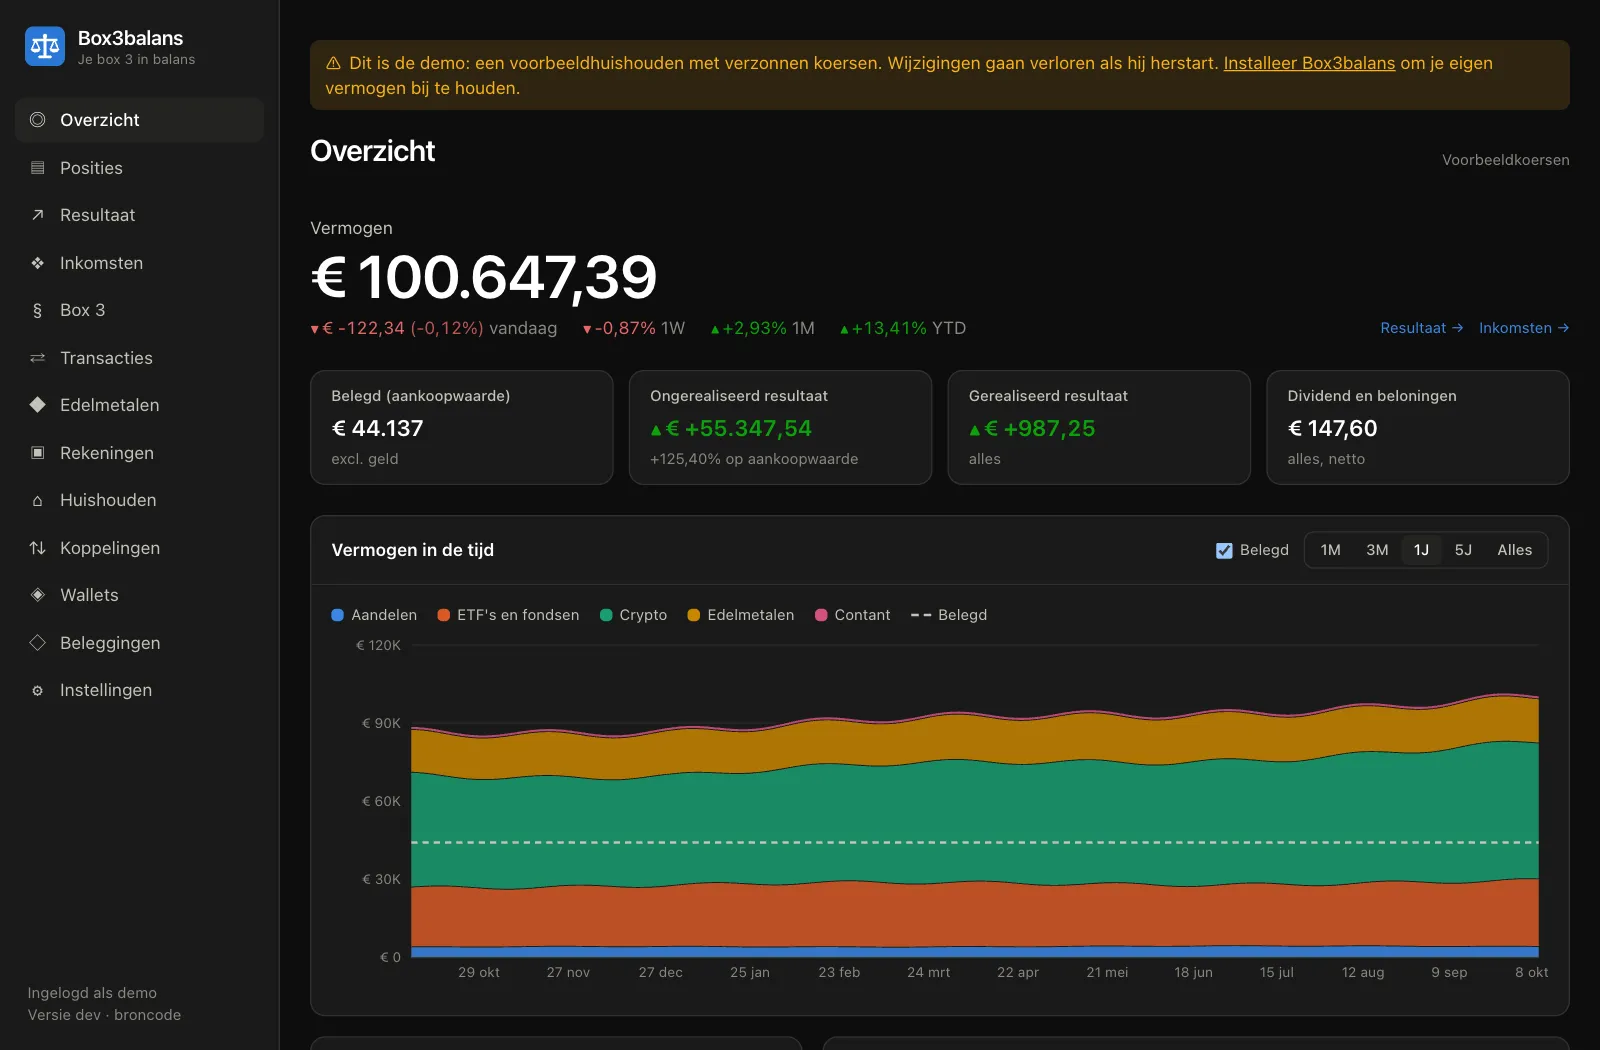
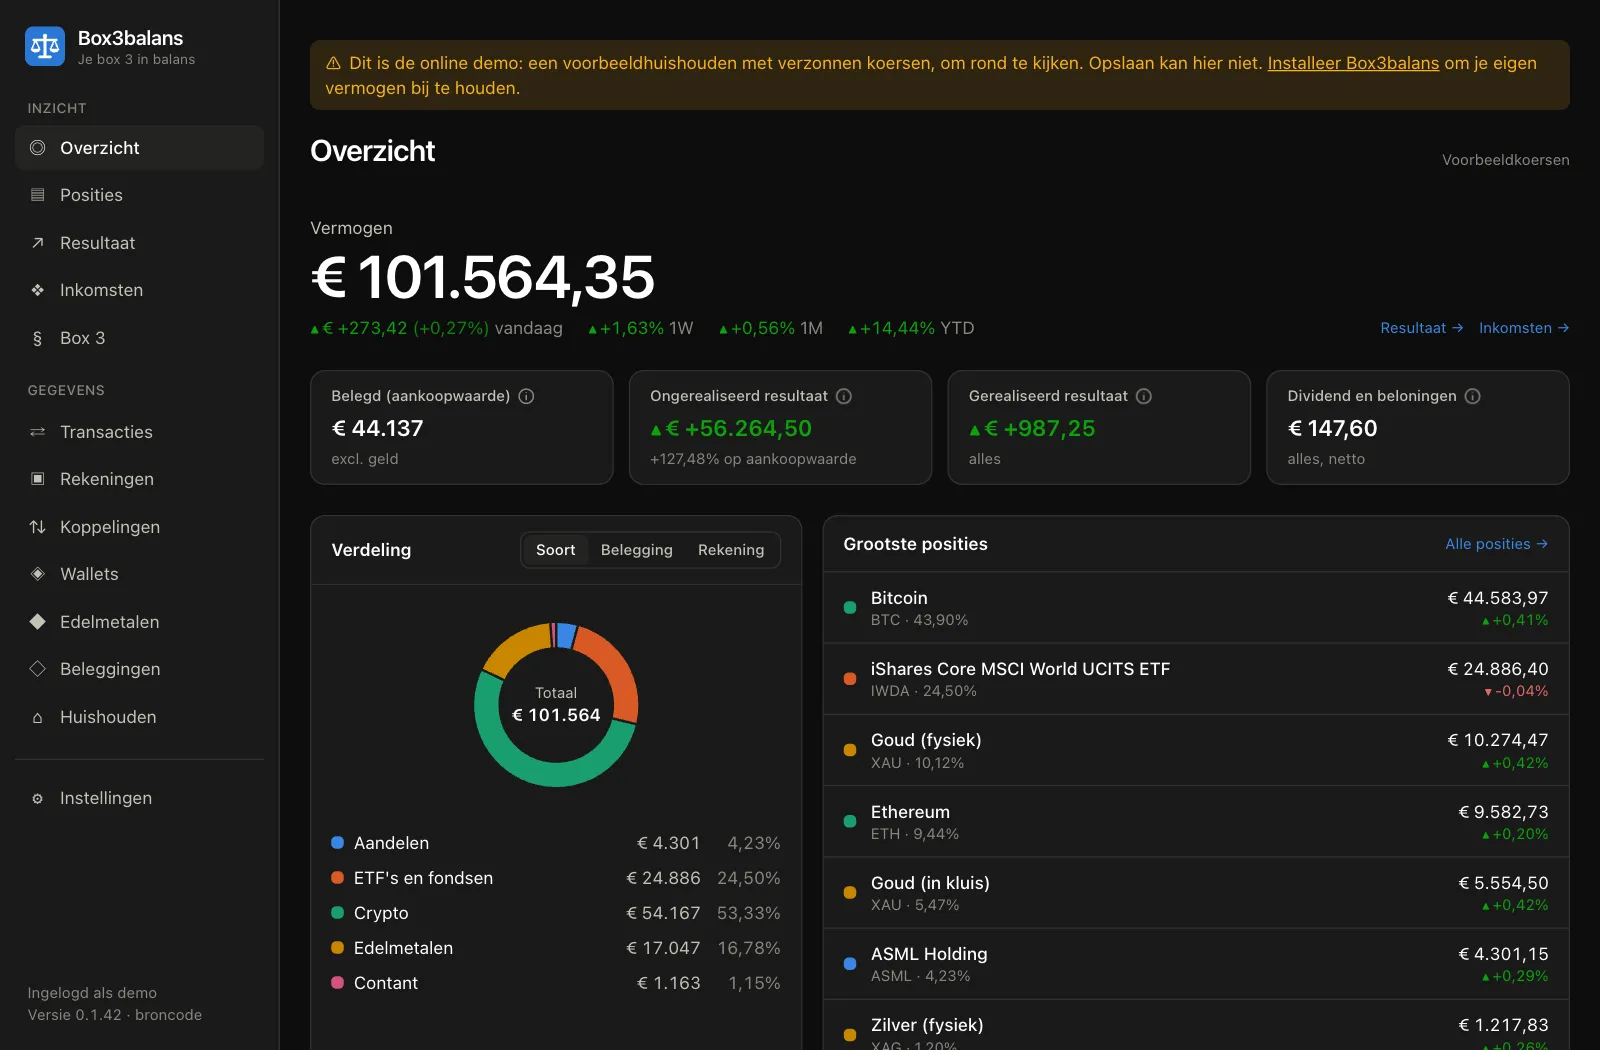
Landing page: screenshots of v0.1.42, and a readable one on phones
The overview screenshot showed "Versie dev" and an older interface; it's
now taken from the online demo of v0.1.42. On screens up to 600 px wide
the page shows the overview at phone width instead, since the desktop
screenshot shrank to an unreadable 358 px.

diff --git a/index.html b/index.html
@@ -212,6 +212,14 @@
 
       <a href="demo/" aria-label="Probeer de demo">
         <picture>
+          <!-- On a phone the desktop screenshot is too small to read: the overview at phone width instead. -->
+          <source
+            srcset="img/overzicht-mobiel-dark.webp"
+            media="(max-width: 600px) and (prefers-color-scheme: dark)"
+            width="780"
+            height="1440"
+          />
+          <source srcset="img/overzicht-mobiel-light.webp" media="(max-width: 600px)" width="780" height="1440" />
           <source srcset="img/overzicht-dark.webp" media="(prefers-color-scheme: dark)" />
           <img
             class="shot"
